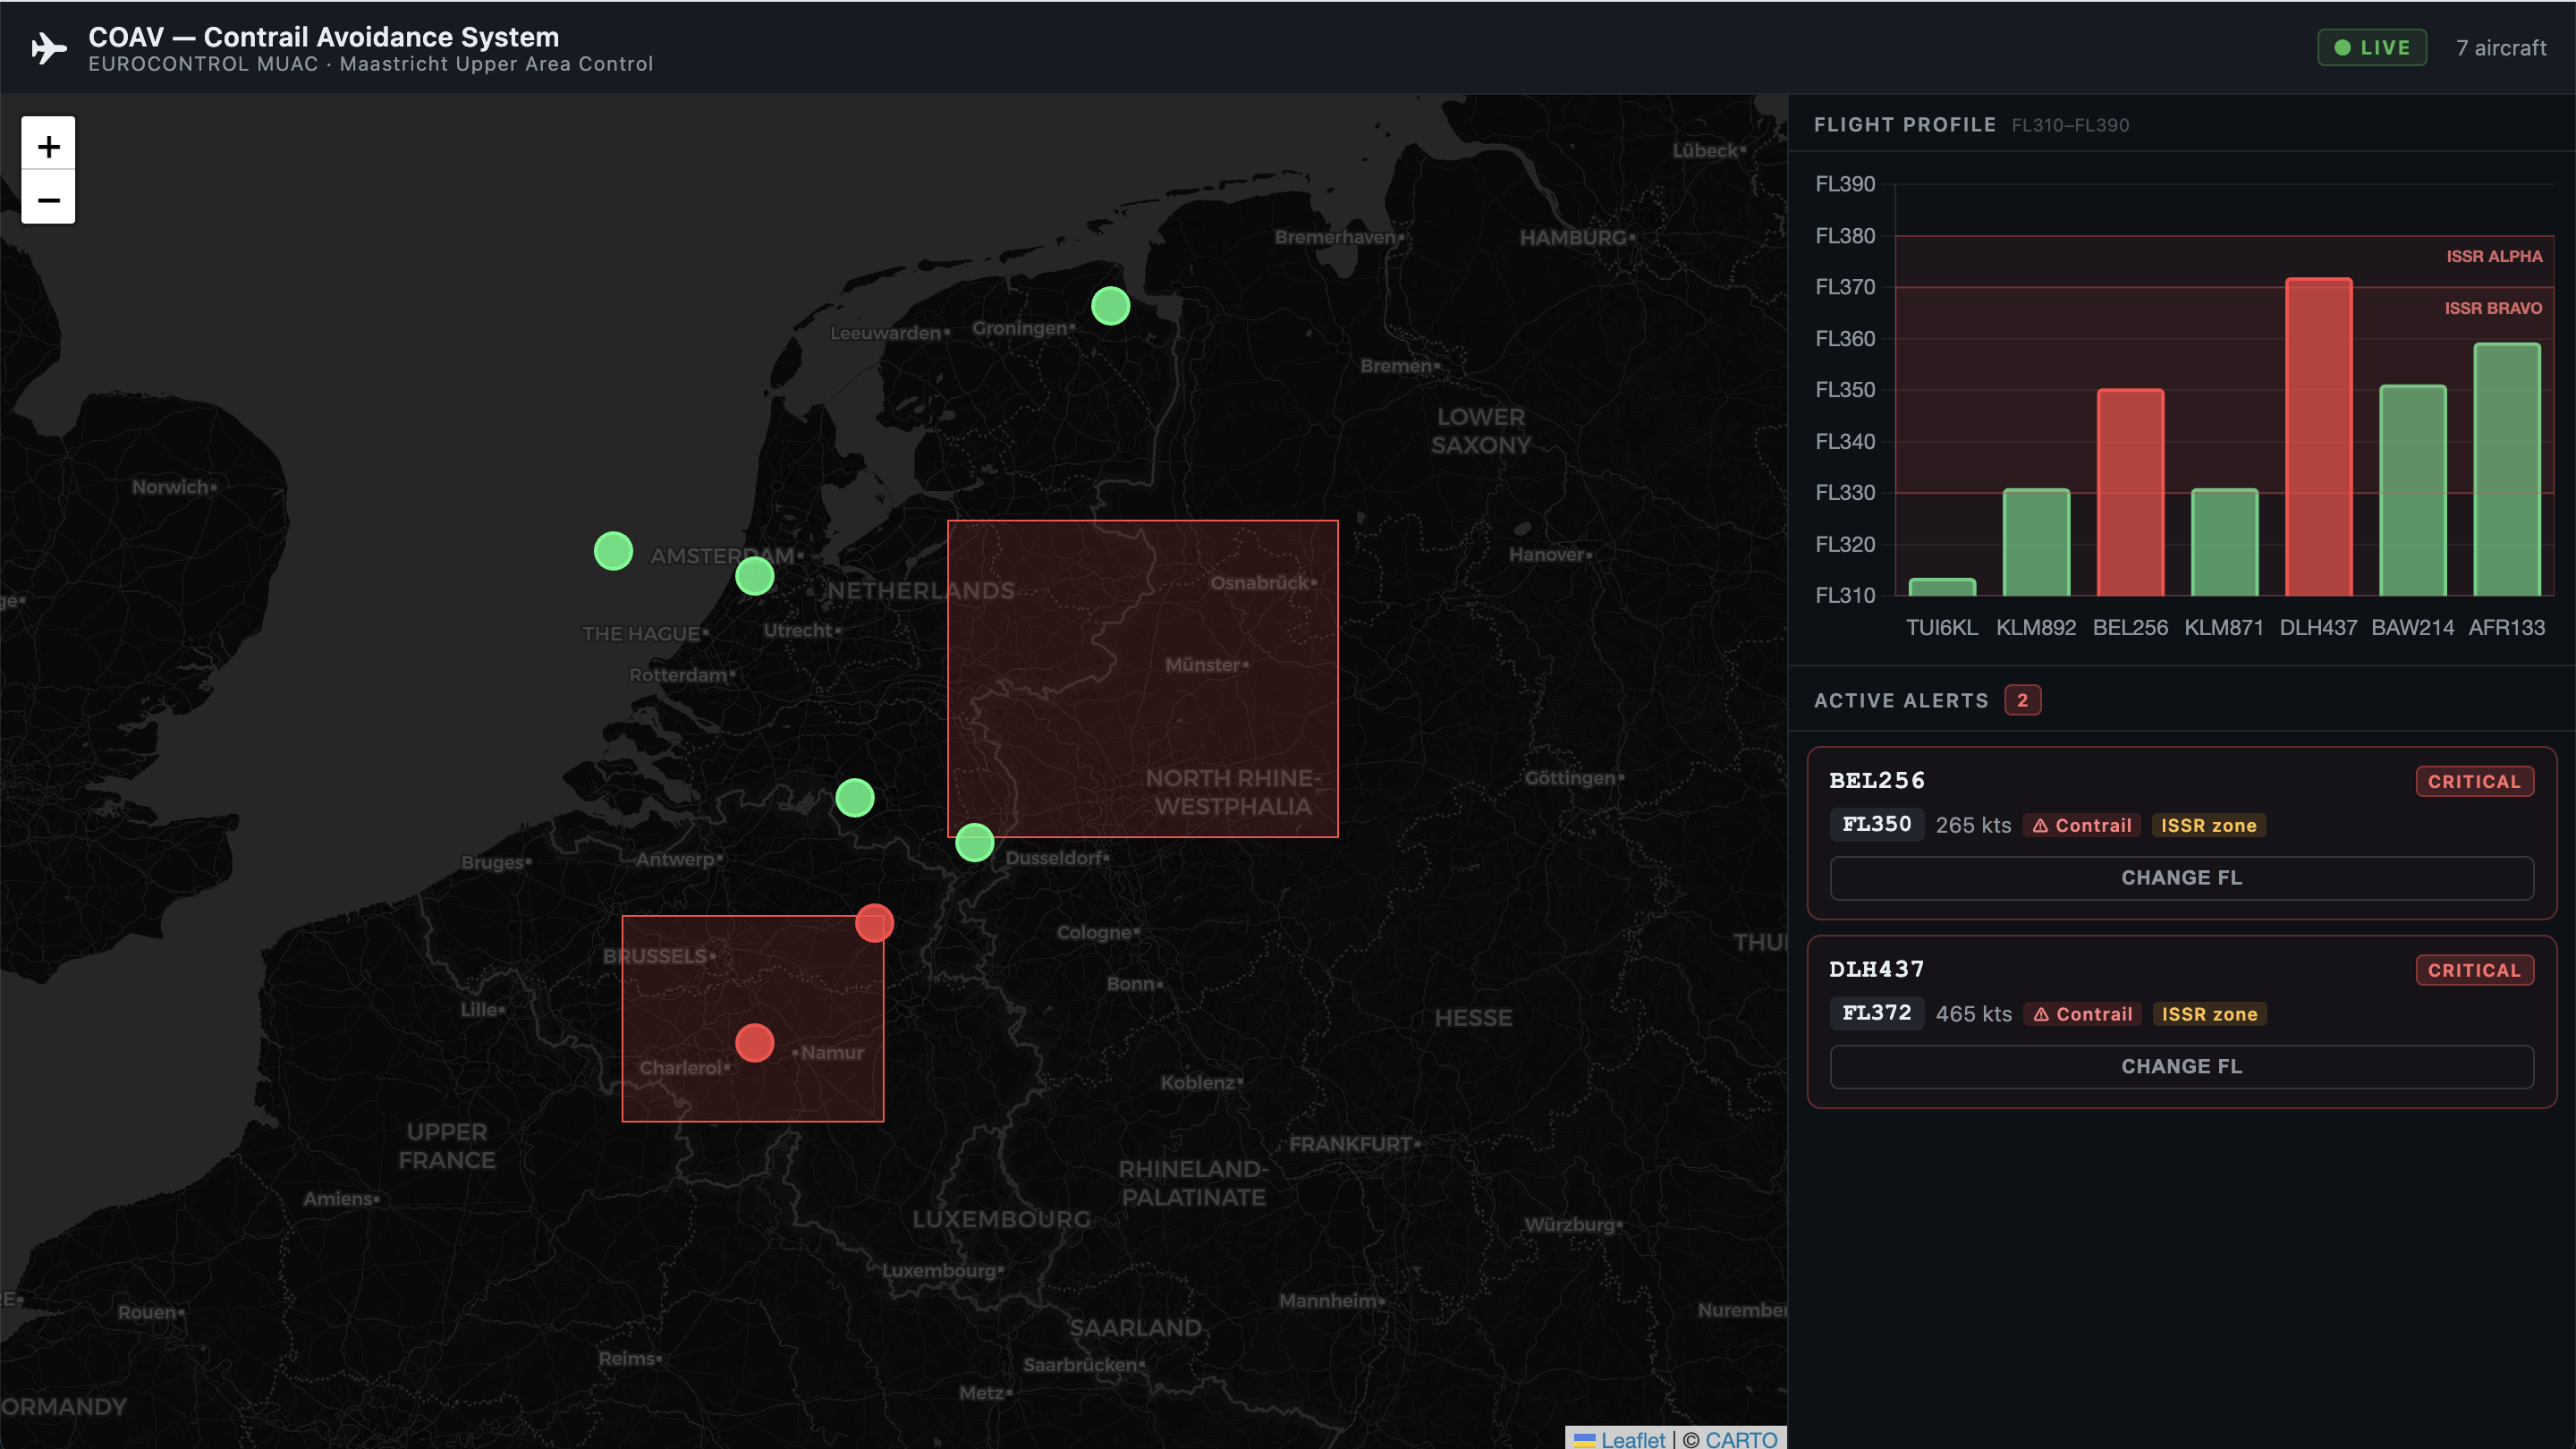
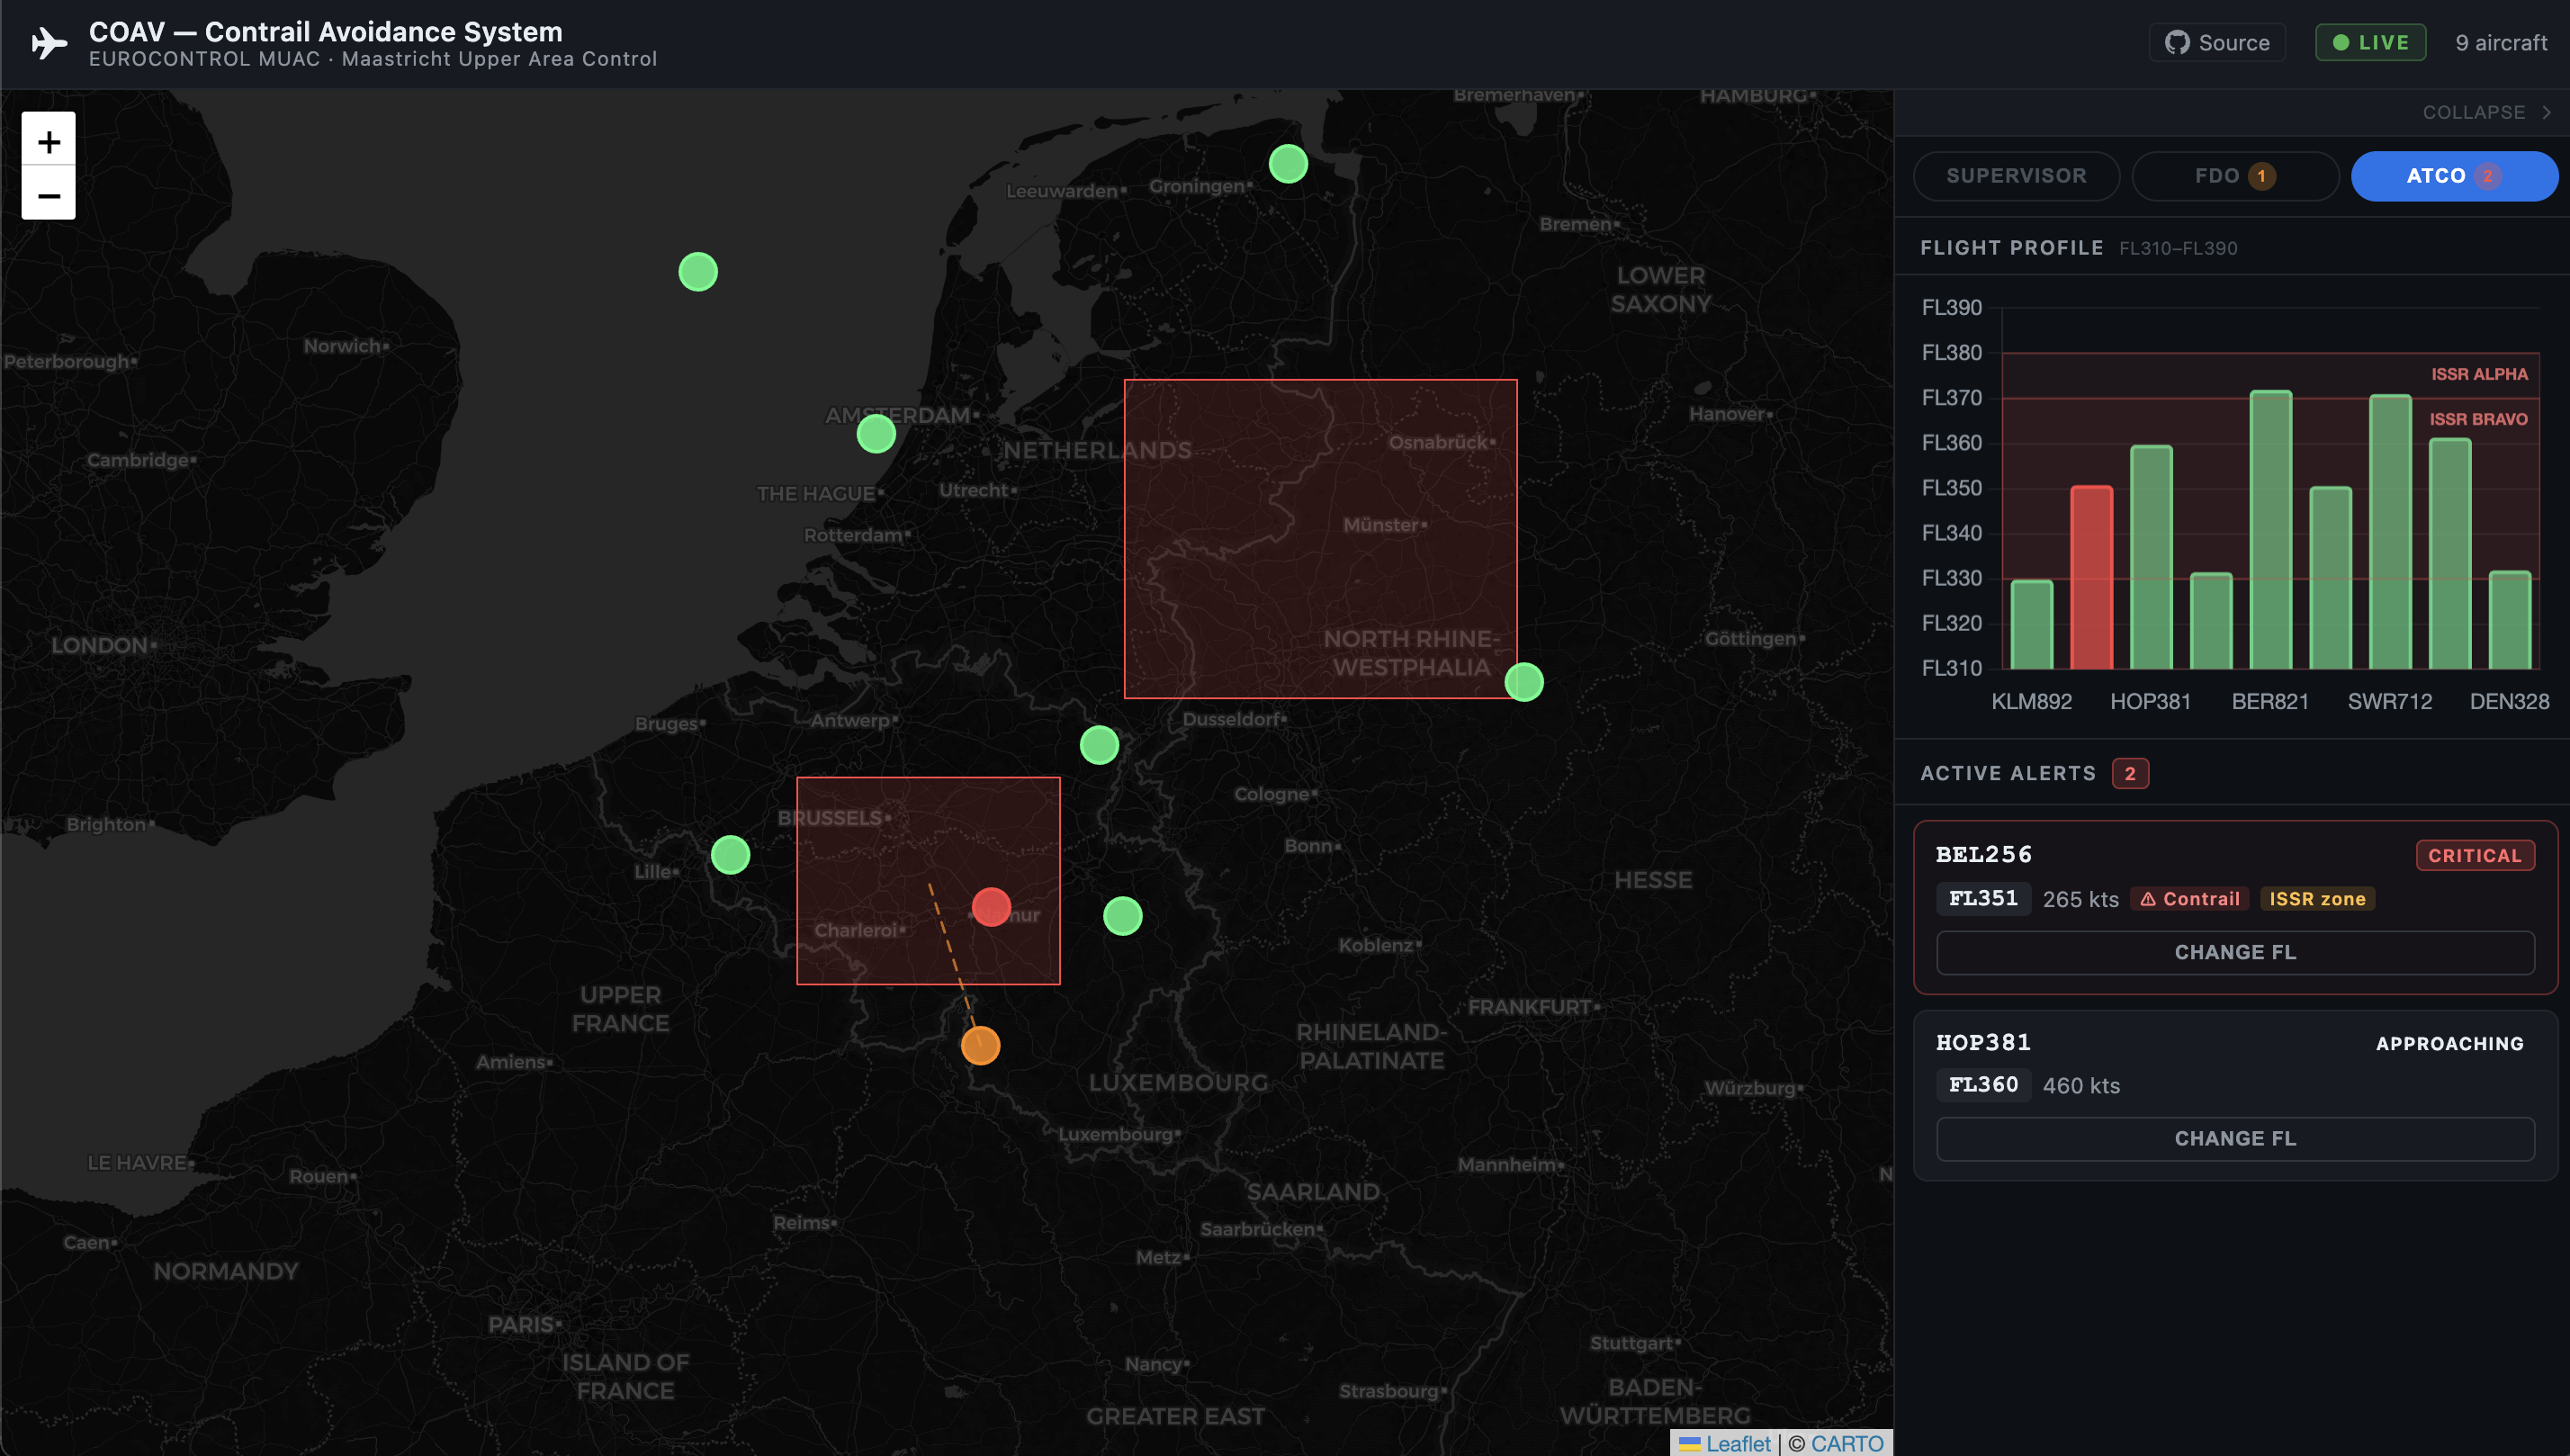
Update 3 tiers docs

diff --git a/README.md b/README.md
@@ -12,17 +12,27 @@ _(URL printed by `terraform output demo_url` after cloud deployment)_
 ## Architecture
 
 ```
-[Raspberry Pi / ACI]               [Azure]                         [ATC Operator]
+[Raspberry Pi / ACI]               [Azure]                         [3-tier ATC Workflow]
   edge-emulator/emulator.py  →  Event Hub (telemetry-adsb-inbound)  →  Vue 3 GUI
-  edge-pi/node/capture.js    ↗  Spring Boot backend                     Leaflet map
-                                 FlightStateStore (5-min TTL)            Chart.js
-                                 WebSocket /topic/flights                AlertPanel
-                                 POST /api/correction
+  edge-pi/node/capture.js    ↗  Spring Boot backend                     Supervisor  — GO/NOGO
+                                 FlightStateStore (5-min TTL)            FDO         — advisory queue
+                                 trajectory projection (+20 min)         ATCO        — corrections
+                                 AdvisoryService (auto-generate)         Leaflet map / Chart.js
+                                 WebSocket broadcast every 2s
 ```
 
 **ISSR zones — single source of truth in `FlightStateStore.ISSR_ZONES`:**
 - Zone Alpha: lat 50.20–51.00, lon 3.80–5.40, FL330–FL380 (Brussels convergence)
 - Zone Bravo: lat 51.30–52.50, lon 5.80–8.20, FL310–FL370 (Dutch-German border)
+
+**Alert states (enriched in `FlightStateStore.enrichAlert()`):**
+
+| State | Condition |
+|---|---|
+| `CRITICAL` | Flight is currently inside ISSR zone |
+| `APPROACHING` | Trajectory projection shows entry within 20 min |
+| `WARNING` | Contrail detected, not yet in/approaching ISSR |
+| `null` | Normal |
 
 ---
 
@@ -190,7 +200,7 @@ curl http://localhost:8080/api/flights
 
 Full command reference → [coav-gui/backend/README.md](coav-gui/backend/README.md)
 
-## Run backend tests (43 tests, no Maven install needed)
+## Run backend tests (44 tests, no Maven install needed)
 
 ```sh
 docker run --rm -v "$PWD/coav-gui/backend":/build -w /build \
@@ -208,7 +218,7 @@ npm install   # once
 npm run dev   # → http://localhost:5173 (proxy /api and /ws → :8080)
 ```
 
-<img src="images/frontend.png" width="1440" />
+<img src="images/frontend.png" width="1428" />
 
 ---
 
@@ -280,20 +290,30 @@ cd terraform && terraform destroy -auto-approve
 
 ## API reference
 
+### Flight data
+
 | Method | Path | Description |
 |--------|------|-------------|
-| GET | `/api/flights` | Active flights (5-min window, sorted newest first) |
-| GET | `/api/issr-zones` | ISSR zone definitions (ALPHA + BRAVO) |
-| POST | `/api/correction` | FL correction — OWASP A03 validation, broadcasts to `/topic/corrections` |
+| GET | `/api/flights` | Active flights (5-min TTL, sorted newest first). Each flight includes `alert` (`CRITICAL` / `APPROACHING` / `WARNING` / null), `heading` (degrees), `approachingZoneId`, `approachingMinutes`. |
+| GET | `/api/issr-zones` | ISSR zone definitions (ALPHA + BRAVO) with lat/lon/alt bounds and severity. |
+
+### 3-tier ATC workflow
+
+| Method | Path | Description |
+|--------|------|-------------|
+| GET | `/api/advisory` | Pending advisories for FDO review. Auto-generated when a flight is `APPROACHING`. |
+| POST | `/api/advisory/accept` | FDO accepts advisory `{ "advisoryId": "<uuid>" }`. Clears from queue, broadcasts. Blocked by Supervisor NO GO on frontend. |
+| POST | `/api/advisory/reject` | FDO rejects advisory. Flight enters 5-min cooldown — no new advisory until cooldown expires. |
+| POST | `/api/correction` | ATCO issues FL correction `{ "flightId", "newAltitudeFt", "reason" }`. OWASP A03 validated, rate-limited 10 req/min per IP. |
 
 **WebSocket topics (STOMP over SockJS `/ws`):**
-- `/topic/flights` — live flight state, pushed every 2 s
-- `/topic/corrections` — ATC instruction acknowledgement
+- `/topic/flights` — full flight list, pushed every 2 s by `FlightStateStore`
+- `/topic/advisories` — pending advisory list, pushed on any change
+- `/topic/corrections` — correction acknowledgement after ATCO action
 
-**Correction flow:** `POST /api/correction` validates input (OWASP A03), returns `CorrectionResult`,
-and broadcasts the acknowledgement via WebSocket to `/topic/corrections`. It does **not** write to
-Event Hub and does **not** modify the simulator trajectory (PoC scope). A production system would
-publish to a second Event Hub entity (`atc-commands`) for the aircraft to consume.
+**Advisory flow:** `FlightStateStore.enrichAlert()` runs flat-earth trajectory projection (20 one-minute steps). On `APPROACHING`, `AdvisoryService` auto-generates one advisory per flight with recommended FL±2000ft. FDO accepts or rejects; accepted advisories enable the ATCO correction form. Rejected flights are suppressed for 5 min. Advisory does **not** modify simulator trajectory (PoC scope).
+
+**Correction flow:** `POST /api/correction` validates input (OWASP A03), enforces sliding-window rate limit (OWASP A04), returns `CorrectionResult`, broadcasts via WebSocket. Does **not** write to Event Hub (production would publish to `atc-commands` hub entity).
 
 ---
 
@@ -331,7 +351,7 @@ coav-poc-azure-k8s/
 │   └── main.py                      — Python K8s backend v1 (initial prototype; superseded by
 │                                      coav-gui/backend once the Java requirement was found in the spec)
 ├── coav-gui/
-│   ├── backend/                     — Java Spring Boot 3 (43 tests, mock + EventHub modes)
+│   ├── backend/                     — Java Spring Boot 3 (44 tests, mock + EventHub modes)
 │   └── frontend/                    — Vue 3 + Vite + TypeScript
 │       ├── Dockerfile               — nginx multi-stage, BACKEND_URL injected at runtime
 │       └── nginx.conf               — serves /config.js with backend URL for direct browser calls